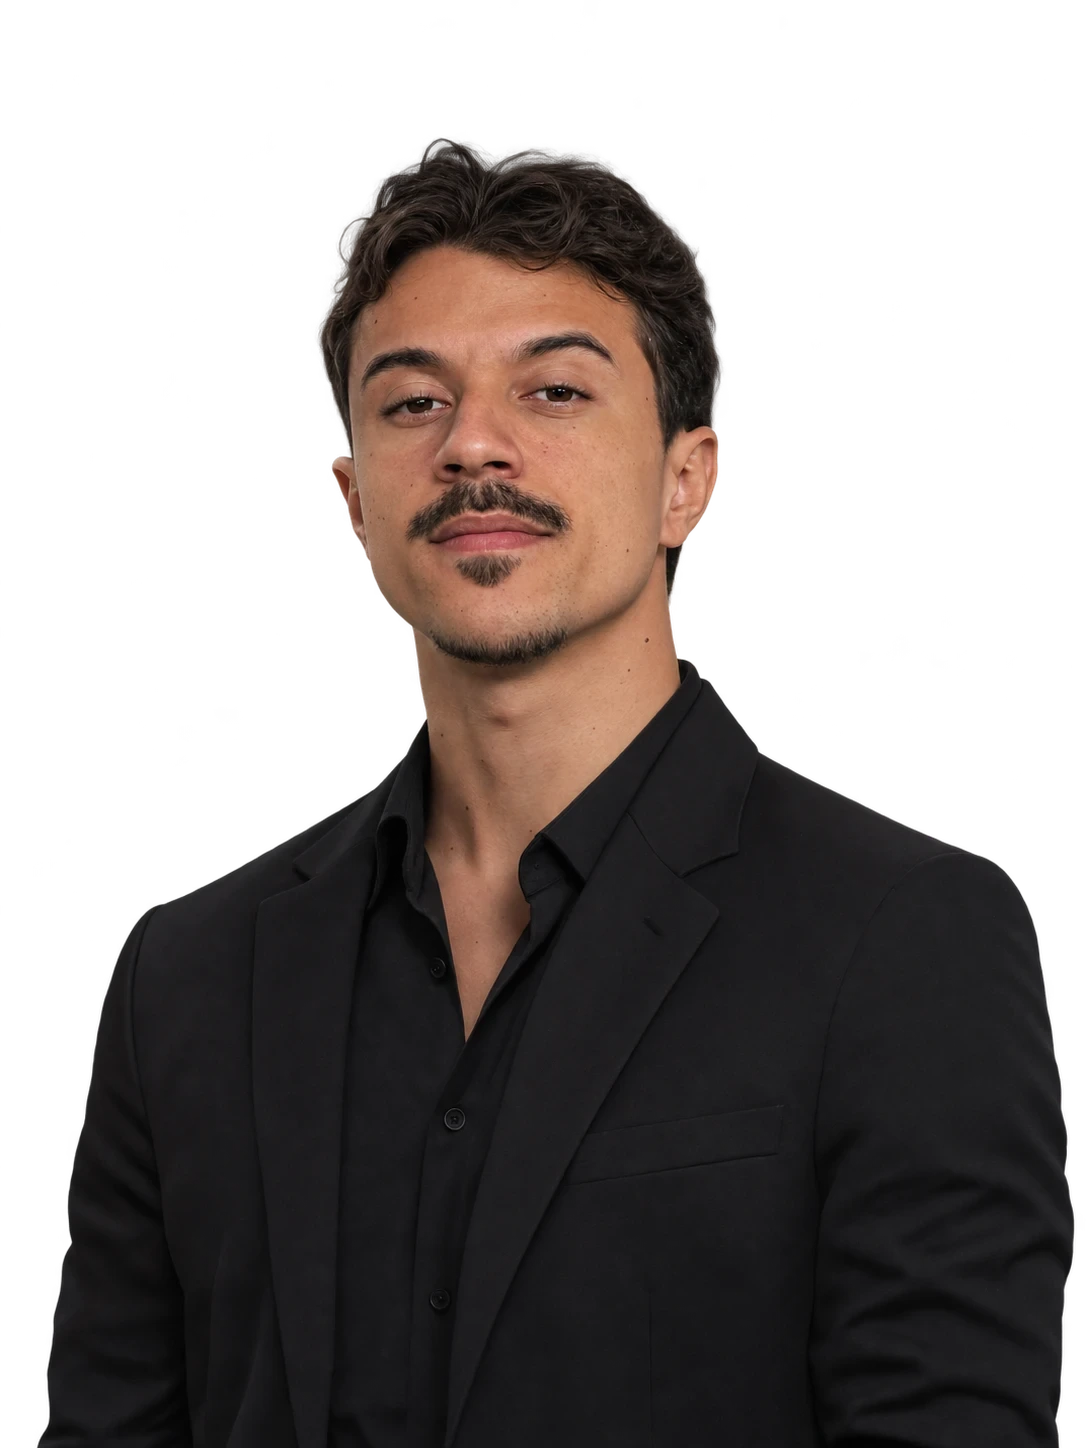
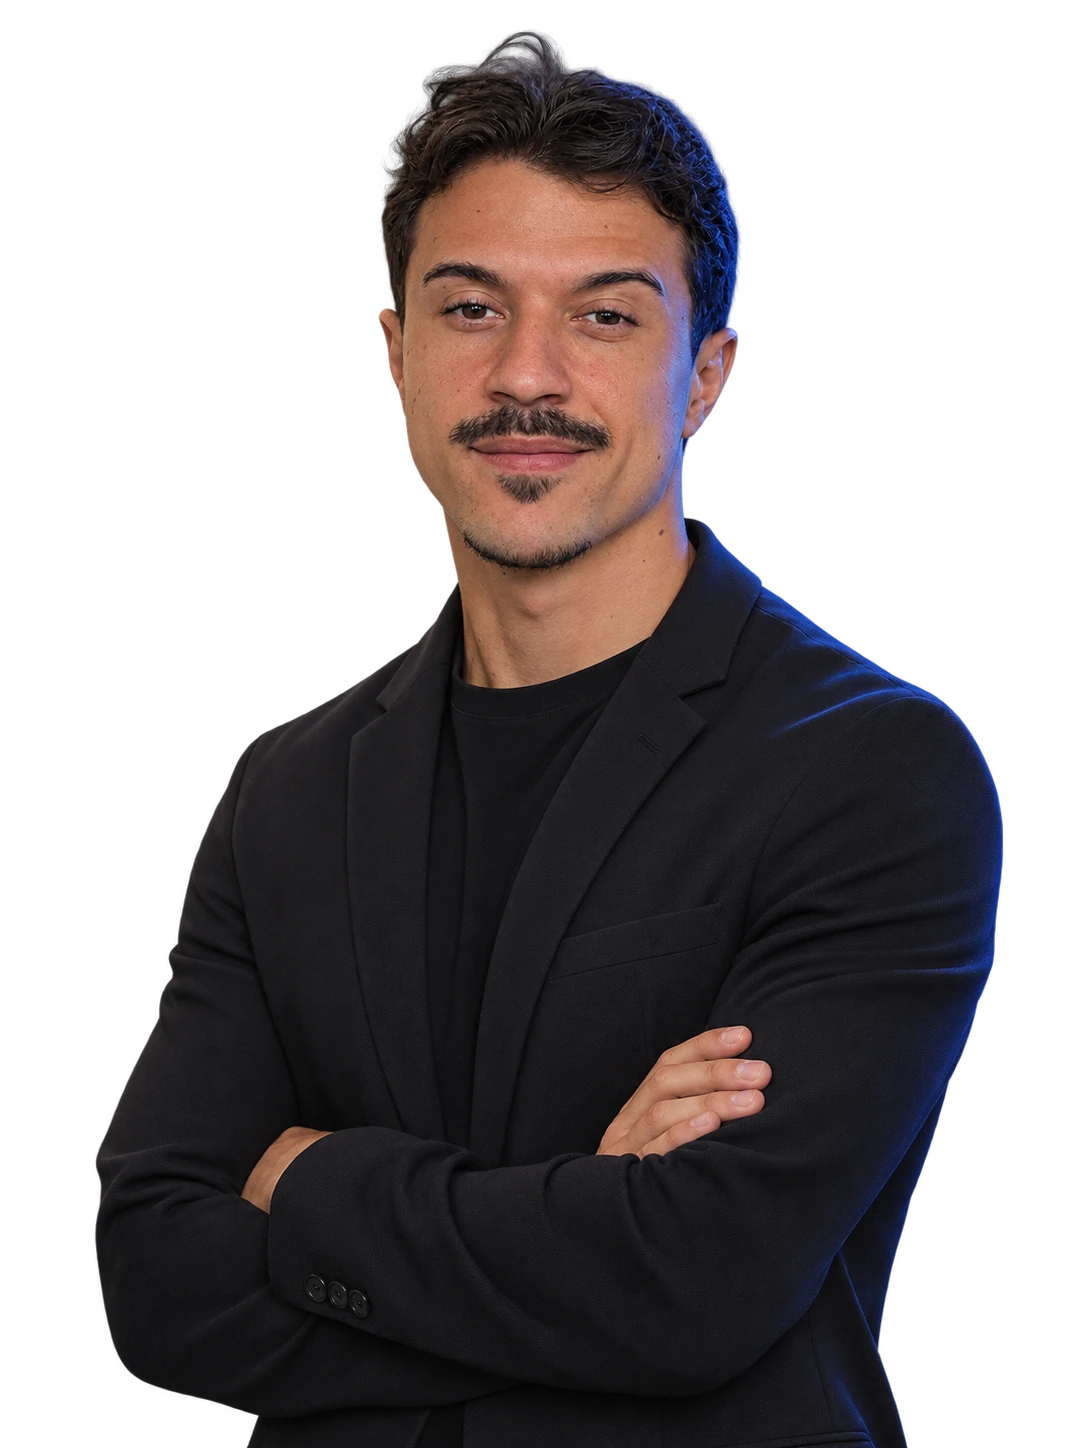
Links das prévias no Netlify e nova foto da hero

diff --git a/index.html b/index.html
@@ -159,9 +159,9 @@
     <div class="projects__track" id="projectsTrack">
 
       <article class="proj" style="--brand:#e8b84a" data-cursor="Ver projeto">
-        <a href="#" class="proj__link" aria-label="AMJ Armazém">
+        <a href="https://proposta--amj-armazem-proposta.netlify.app" target="_blank" rel="noopener" class="proj__link" aria-label="AMJ Armazém — abrir prévia em nova aba">
           <div class="proj__frame">
-            <div class="proj__bar"><i></i><i></i><i></i><span>amjarmazem.com.br</span></div>
+            <div class="proj__bar"><i></i><i></i><i></i><span>proposta--amj-armazem-proposta.netlify.app</span></div>
             <div class="proj__shot"><img src="assets/projects/amj.webp" alt="Site da AMJ Armazém" loading="lazy"></div>
           </div>
           <div class="proj__info">
@@ -174,9 +174,9 @@
       </article>
 
       <article class="proj" style="--brand:#22c55e" data-cursor="Ver projeto">
-        <a href="#" class="proj__link" aria-label="Academia Água Viva">
+        <a href="https://proposta--agua-viva-proposta.netlify.app" target="_blank" rel="noopener" class="proj__link" aria-label="Academia Água Viva — abrir prévia em nova aba">
           <div class="proj__frame">
-            <div class="proj__bar"><i></i><i></i><i></i><span>academiaaguaviva.com.br</span></div>
+            <div class="proj__bar"><i></i><i></i><i></i><span>proposta--agua-viva-proposta.netlify.app</span></div>
             <div class="proj__shot"><img src="assets/projects/aguaviva.webp" alt="Site da Academia Água Viva" loading="lazy"></div>
           </div>
           <div class="proj__info">
@@ -189,9 +189,9 @@
       </article>
 
       <article class="proj" style="--brand:#d9a441" data-cursor="Ver projeto">
-        <a href="#" class="proj__link" aria-label="Soul Body Fitness">
+        <a href="https://proposta--soul-body-proposta.netlify.app" target="_blank" rel="noopener" class="proj__link" aria-label="Soul Body Fitness — abrir prévia em nova aba">
           <div class="proj__frame">
-            <div class="proj__bar"><i></i><i></i><i></i><span>soulbodyfitness.com.br</span></div>
+            <div class="proj__bar"><i></i><i></i><i></i><span>proposta--soul-body-proposta.netlify.app</span></div>
             <div class="proj__shot"><img src="assets/projects/soulbody.webp" alt="Site da Soul Body Fitness" loading="lazy"></div>
           </div>
           <div class="proj__info">
@@ -204,9 +204,9 @@
       </article>
 
       <article class="proj" style="--brand:#ff3b1f" data-cursor="Ver projeto">
-        <a href="#" class="proj__link" aria-label="Evolution Training Club">
+        <a href="https://evolution-training-club-proposta.netlify.app/v2/" target="_blank" rel="noopener" class="proj__link" aria-label="Evolution Training Club — abrir prévia em nova aba">
           <div class="proj__frame">
-            <div class="proj__bar"><i></i><i></i><i></i><span>evolutiontrainingclub.com.br</span></div>
+            <div class="proj__bar"><i></i><i></i><i></i><span>evolution-training-club-proposta.netlify.app/v2</span></div>
             <div class="proj__shot"><img src="assets/projects/evolution.webp" alt="Site da Evolution Training Club" loading="lazy"></div>
           </div>
           <div class="proj__info">

diff --git a/style.css b/style.css
@@ -271,7 +271,7 @@ section{position:relative}
 .proj__bar{display:flex;align-items:center;gap:6px;padding:11px 14px;background:#0a0f1f;border-bottom:1px solid var(--line)}
 .proj__bar i{width:9px;height:9px;border-radius:50%;background:#26304d}
 .proj__bar i:first-child{background:#ff5f57}.proj__bar i:nth-child(2){background:#febc2e}.proj__bar i:nth-child(3){background:#28c840}
-.proj__bar span{margin-left:12px;font:500 11px var(--f-mono);color:var(--dim);background:#060a16;padding:4px 12px;border-radius:6px;flex:1;max-width:320px}
+.proj__bar span{margin-left:12px;font:500 11px var(--f-mono);color:var(--dim);background:#060a16;padding:4px 12px;border-radius:6px;flex:1;max-width:420px;min-width:0;white-space:nowrap;overflow:hidden;text-overflow:ellipsis}
 .proj__shot{aspect-ratio:16/10;overflow:hidden;position:relative}
 .proj__shot img{width:100%;height:100%;object-fit:cover;object-position:top;transform:scale(1.12);transition:transform 1.2s var(--ease)}
 .proj:hover .proj__shot img{transform:scale(1.04)}
